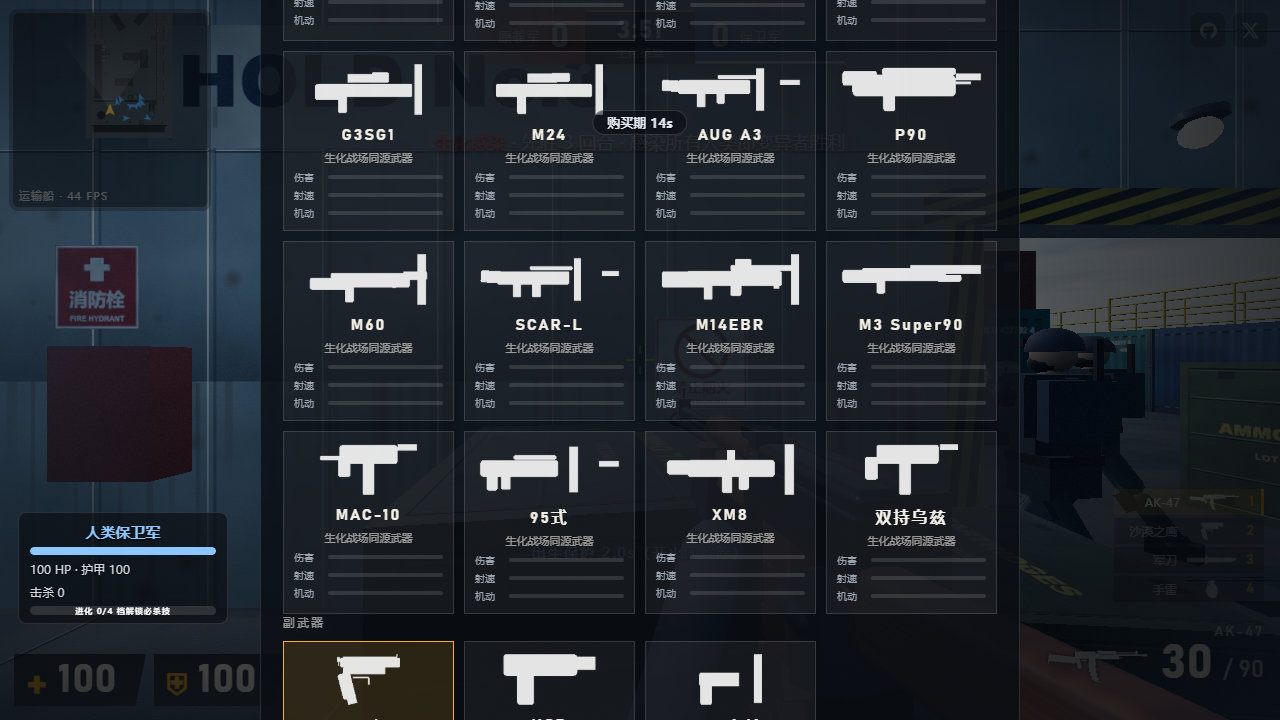
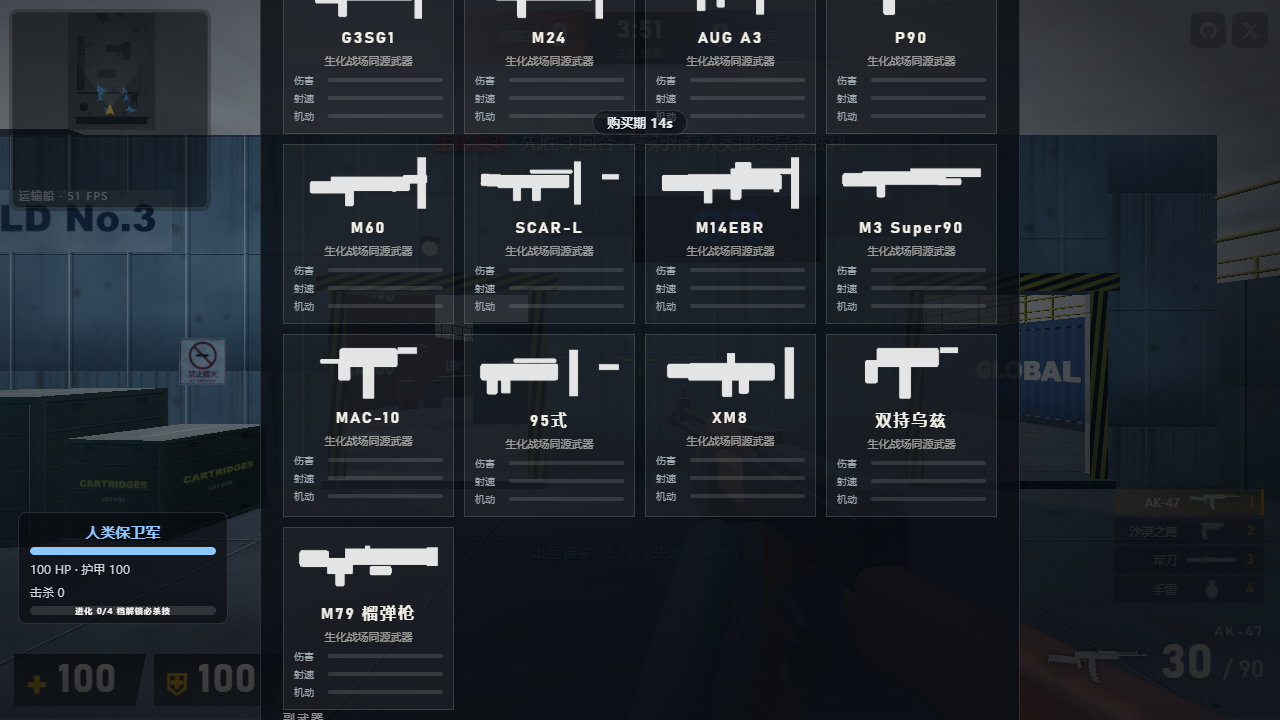
WOZ V40: 新武器 M79 榴弹发射器（抛射榴弹·范围杀伤）
- weapons: m79（type launcher，4 发弹仓）+ m79shell 40mm 榴弹（150 伤/6m/2.5s 引信/大击退）
- actor.weaponUpdate: launcher 分支（firePressed 开火、弹药与射速门控、通用换弹）
- game.fireLauncher: 初速 23m/s 上抛弧线、震屏、枪口音效；爆炸走既有 nade/explode 管线（波及油桶殉爆）
- guns: M79 帆布托粗管造型 + 40mm 弹壳构建器（makeIcons 全量遍历需要）
- 商店 21 张主武器卡（各卡数断言同步）
- 测试: probe v36 3 断言（真实输入路径开火/抛射/重创 8m 目标）3 连跑全绿 + e2e + smoke 全绿

diff --git a/cf-transport-ship/src/guns.js b/cf-transport-ship/src/guns.js
@@ -266,6 +266,14 @@ const builders = {
     return g;
   },
   // ---- V2 扩充枪模（紧凑程序化造型，共用锚点） ----
+  m79shell(m) {
+    const g = new THREE.Group();
+    part(g, CZ(0.035, 0.1, 10), m.metal, 0, 0, 0);                       // 弹体
+    part(g, CZ(0.036, 0.016, 10), m.dark, 0, 0, 0.04);                   // 收口环
+    part(g, RB(0.05, 0.02, 0.05, 0.005), m.dark, 0, 0, -0.02);           // 弹带
+    anchor(g, 'grip', 0, -0.05, 0);
+    return g;
+  },
   flash(m) {
     const g = new THREE.Group();
     part(g, CZ(0.045, 0.13), m.metal, 0, 0, 0);                          // 圆柱弹体
@@ -295,6 +303,18 @@ const builders = {
     part(g, RB(0.03, 0.1, 0.05, 0.01), m.rubber, 0, -0.07, 0.1);        // 握把
     part(g, RB(0.028, 0.12, 0.06, 0.01), m.rubber, 0, -0.05, -0.02);    // 弹匣
     anchor(g, 'grip', 0, -0.05, 0.1); anchor(g, 'muzzle', 0, 0, -0.42);
+    return g;
+  },
+  m79(m) {
+    const g = new THREE.Group();
+    part(g, CZ(0.045, 0.5, 12), m.dark, 0, 0.03, -0.18);                // 粗发射管
+    part(g, CZ(0.05, 0.06, 12), m.black, 0, 0.03, -0.4);                // 管口箍
+    part(g, RB(0.05, 0.09, 0.14, 0.01), m.black, 0, -0.02, 0.1);        // 机匣
+    part(g, RB(0.03, 0.1, 0.05, 0.01), m.rubber, 0, -0.08, 0.1);        // 握把
+    part(g, RB(0.05, 0.05, 0.12, 0.012), m.wood, 0, -0.045, -0.12);     // 护木
+    part(g, RB(0.04, 0.09, 0.16, 0.014), m.wood, 0, 0.02, 0.24);        // 肩托
+    part(g, BX(0.016, 0.03, 0.03), m.metal, 0, 0.075, -0.05);           // 准星
+    anchor(g, 'grip', 0, -0.07, 0.1); anchor(g, 'muzzle', 0, 0.03, -0.44);
     return g;
   },
   qbz95(m) {

diff --git a/cf-transport-ship/src/weapons.js b/cf-transport-ship/src/weapons.js
@@ -214,6 +214,16 @@ export const WEAPONS = {
     speed: 1.05, sound: 'knife', hudName: 'CROWBAR', knock: 5.0, stagger: 0.24, mag: 0, reserve: 0,
   },
 
+  // ---- V40（榴弹发射器）----
+  m79: {
+    id: 'm79', name: 'M79 榴弹枪', slot: 0, type: 'launcher', auto: false,
+    dmg: 1, mag: 4, reserve: 8, reload: 3.2, draw: 0.9, speed: 0.88, sound: 'grenade', hudName: 'M79',
+  },
+  m79shell: {
+    id: 'm79shell', name: '40mm 榴弹', slot: 3, type: 'grenade', auto: false,
+    dmg: 150, radius: 6, fuse: 2.5, knock: 8, stagger: 0.5, draw: 0.5, speed: 1.0, sound: 'grenade', hudName: '40MM', mag: 1, reserve: 0,
+  },
+
   // ---- V20（近战/投掷扩展）----
   axe: {
     id: 'axe', name: '消防斧', slot: 2, type: 'melee', auto: true,
@@ -242,7 +252,7 @@ export const WEAPONS = {
   },
 };
 
-export const PRIMARIES = ['ak47', 'm4a1', 'awm', 'mp5', 'famas', 'thompson', 'minigun', 'spas', 'g3sg1', 'm24', 'aug', 'p90', 'm60', 'scarl', 'm14ebr', 'm3super', 'mac10', 'qbz95', 'xm8', 'dualuzi'];
+export const PRIMARIES = ['ak47', 'm4a1', 'awm', 'mp5', 'famas', 'thompson', 'minigun', 'spas', 'g3sg1', 'm24', 'aug', 'p90', 'm60', 'scarl', 'm14ebr', 'm3super', 'mac10', 'qbz95', 'xm8', 'dualuzi', 'm79'];
 // V19：副武器三选（沙鹰默认；R8 左轮为原作风格高伤手炮）
 export const SECONDARIES = ['deagle', 'usp', 'r8'];
 

diff --git a/cf-transport-ship/src/game.js b/cf-transport-ship/src/game.js
@@ -577,6 +577,21 @@ export class Game {
       },
     });
   }
+  fireLauncher(a, w) {
+    const eye = a.eye(new THREE.Vector3());
+    const dir = a.forward(new THREE.Vector3());
+    if (a.isPlayer) this.vm.melee(false); // 视觉后坐
+    this.fx.shake = Math.max(this.fx.shake || 0, 0.35);
+    audio.playGrenadeThrow();
+    audio.playImpact(eye, 'metal');
+    const mesh = buildGunMerged('he');
+    mesh.scale.setScalar(0.85);
+    const vel = dir.clone().multiplyScalar(23);
+    vel.y += 1.5;
+    this.nades.push({ id: 'm79shell', mesh, pos: eye.clone().addScaledVector(dir, 0.55), vel, fuse: WEAPONS.m79shell.fuse, owner: a, spin: new THREE.Vector3(6, 2, 0) });
+    this.renderer.scene.add(mesh);
+    if (a.isPlayer) this.hud.slots(a.inv, a.slot);
+  }
   throwGrenade(a) {
     const eye = a.eye(new THREE.Vector3());
     const dir = a.forward(new THREE.Vector3());

diff --git a/cf-transport-ship/src/actor.js b/cf-transport-ship/src/actor.js
@@ -201,6 +201,15 @@ export class Actor {
       if (inp.firePressed && w.mag > 0) { this.pendingThrow = 0.52; g.onGrenadeStart(this); }
       return;
     }
+    if (d.type === 'launcher') {
+      // 榴弹发射器（V40）：抛射 40mm 榴弹（弹跳+引信）
+      if (inp.firePressed && now >= w.nextFire && w.mag > 0) {
+        w.mag--; w.lastShot = now; w.nextFire = now + 60 / d.rpm;
+        this.stats.shots++;
+        g.fireLauncher(this, w);
+      }
+      return;
+    }
     // 枪械
     const trigger = d.auto ? inp.fire : inp.firePressed;
     if (!trigger || now < w.nextFire || now < w.boltUntil) return;
